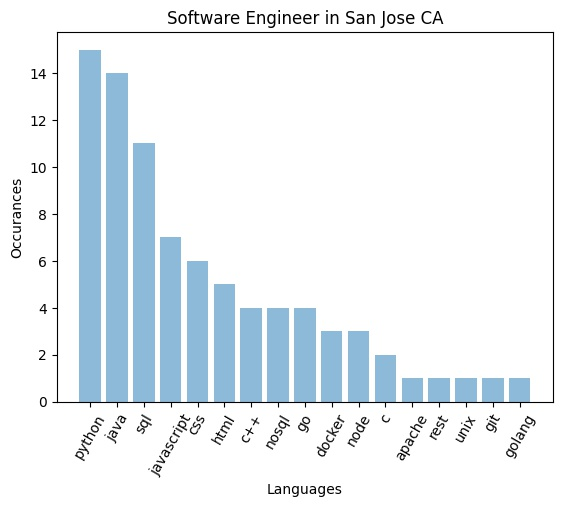
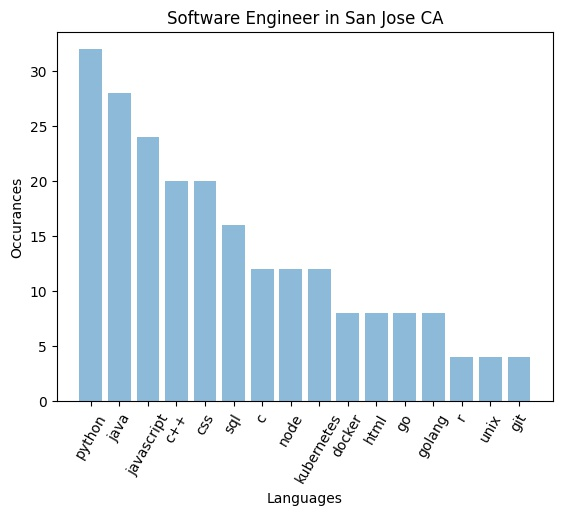
Added multi page support

diff --git a/boardReader.py b/boardReader.py
@@ -17,12 +17,13 @@ import sys, getopt
 # Returns a list of companies and titles elements
 # as well as the job description text
 def getInfo(driver, results):
+    descriptions = []
     companies = results.find_elements_by_class_name('company')
     titles = results.find_elements_by_class_name("title")
-    descriptions = []
     for i in range(len(companies)):
         try:
-            titles[i].click()
+            # titles[i].click()
+            driver.execute_script("arguments[0].click();", titles[i])
             time.sleep(.5)
             driver.switch_to.frame('vjs-container-iframe')
             time.sleep(1.5)
@@ -34,7 +35,6 @@ def getInfo(driver, results):
             print("******* Error getting job " + str(i))
             print(e)
             continue
-
     return companies, titles, descriptions
 
 # Print the company, job title, and the job description for a single page. 
@@ -114,12 +114,23 @@ def main(argv):
     print("Getting job info for " + title + " in " + location)
     companies, titles, descriptions = getInfo(webBrowser, resultsCol)
 
+    # nextPage = driver.find_elements_by_class_name("np")
+    # print("page 2")
+    for i in range(0,3):
+        print("next page")
+        nextPage = webBrowser.find_element_by_xpath("/html/body/table[2]/tbody/tr/td/table/tbody/tr/td[1]/nav/div/ul/li[6]")
+        webBrowser.execute_script("arguments[0].click();", nextPage)
+        resultsCol = webBrowser.find_element_by_id('resultsCol')
+
+        companies2, titles2, descriptions2 = getInfo(webBrowser, resultsCol)
+
+        descriptions += descriptions2
+    
     wordCounter = createLanguageCounter('languages.txt')
     wordCounter = getWordCount(wordCounter, descriptions)
     
     wordCounter += Counter() # Removing 0 elements
     print(wordCounter)
-
     displayGraph(wordCounter, title, location)
     webBrowser.quit()
 
